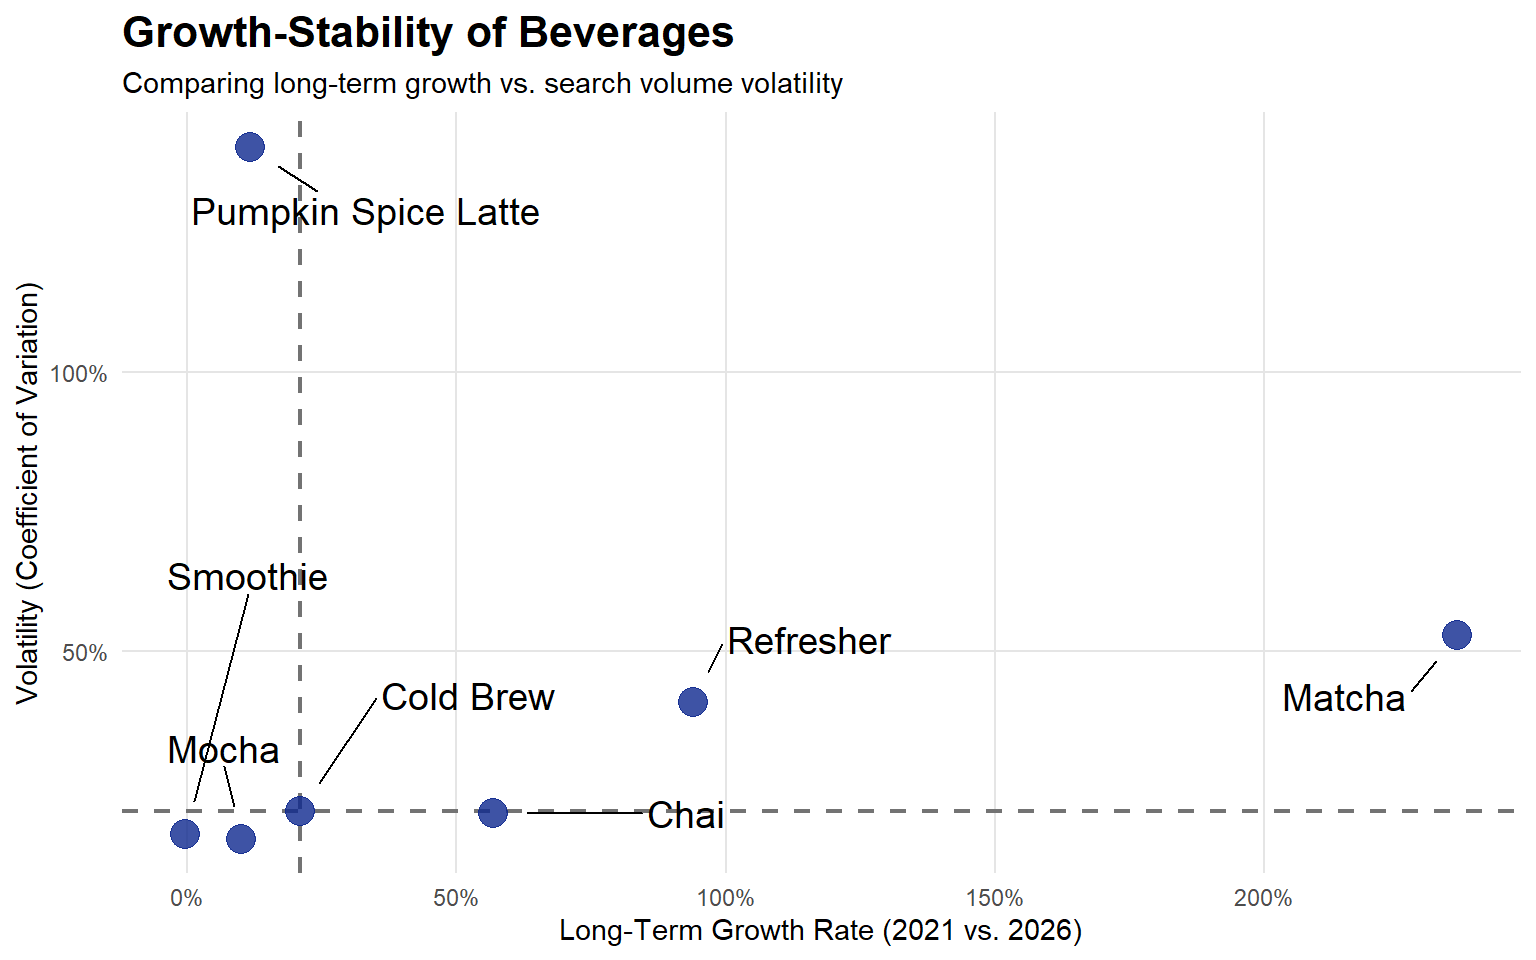
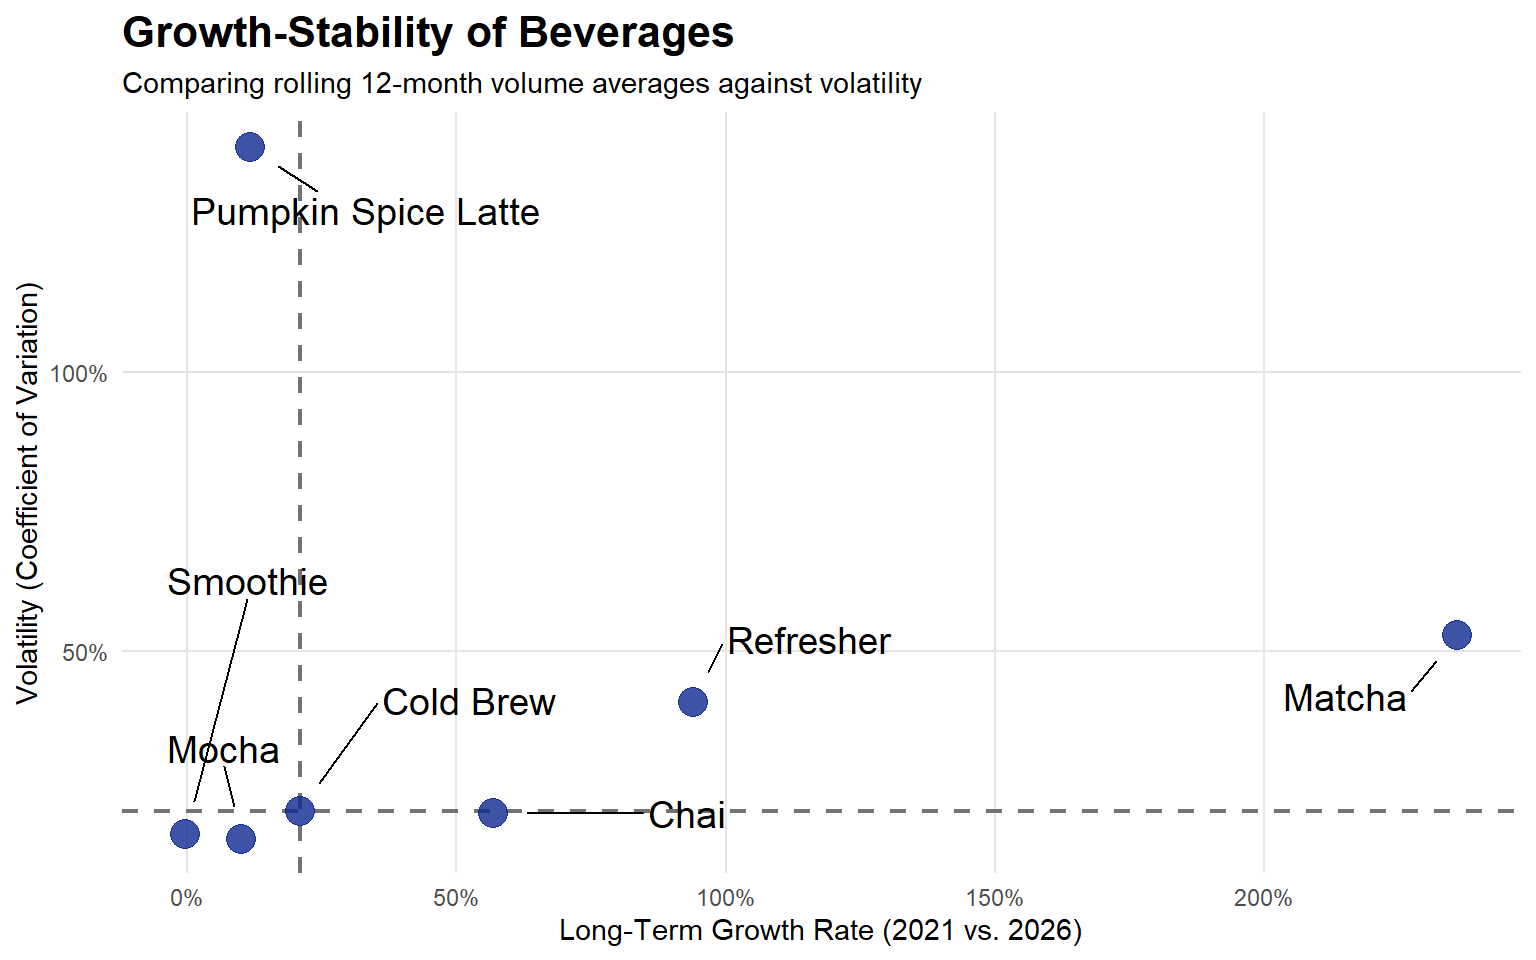
final modifications

diff --git a/matcha_dashboard1.html b/matcha_dashboard1.html
@@ -70,7 +70,7 @@ ul.task-list li input[type="checkbox"] {
         
       </div>
     </div>
-<div id="dashboard-collapse" class="navbar-collapse collapse"><ul class="navbar-nav navbar-nav-scroll me-auto" role="tablist"><li class="nav-item" role="presentation"><a id="tab-analysis" class="nav-link active" data-bs-toggle="tab" role="tab" data-bs-target="#analysis" data-scrolling="false" href="#analysis" aria-controls="analysis" aria-selected="true"><span class="nav-link-text">Analysis</span></a></li><li class="nav-item" role="presentation"><a id="tab-data" class="nav-link" data-bs-toggle="tab" role="tab" data-bs-target="#data" data-scrolling="false" href="#data" aria-controls="data" aria-selected="false"><span class="nav-link-text">Data</span></a></li></ul><div class="quarto-dashboard-links"><a class="quarto-dashboard-link" href="https://github.com/joyyy00/matcha-consumer-analysis/" title="GitHub"><i class="bi bi-github"></i></a></div></div></div>
+<div id="dashboard-collapse" class="navbar-collapse collapse"><ul class="navbar-nav navbar-nav-scroll me-auto" role="tablist"><li class="nav-item" role="presentation"><a id="tab-analysis" class="nav-link active" data-bs-toggle="tab" role="tab" data-bs-target="#analysis" data-scrolling="false" href="#analysis" aria-controls="analysis" aria-selected="true"><span class="nav-link-text">Analysis</span></a></li><li class="nav-item" role="presentation"><a id="tab-data-additional-info" class="nav-link" data-bs-toggle="tab" role="tab" data-bs-target="#data-additional-info" data-scrolling="false" href="#data-additional-info" aria-controls="data-additional-info" aria-selected="false"><span class="nav-link-text">Data &amp; Additional Info</span></a></li></ul><div class="quarto-dashboard-links"><a class="quarto-dashboard-link" href="https://github.com/joyyy00/matcha-consumer-analysis/" title="GitHub"><i class="bi bi-github"></i></a></div></div></div>
 </nav>
 </header>
 <div class="page-layout-custom quarto-dashboard-content bslib-gap-spacing html-fill-container bslib-page-fill quarto-dashboard-pages">  
@@ -125,7 +125,7 @@ grid-auto-rows: minmax(0, 1fr);">
 0.9x
 </div>
 <div style="text-align: center; color: #7F8C8D; font-size: 0.9em;" class="html-fill-item html-fill-container">
-<p>Despite lower total visibility, traditional “Powder Quality” content maintains 90% engagement parity with mainstream Starbucks trends.</p>
+<p>While ‘Ceremonial/Traditional’ videos have a smaller overall reach, they successfully generate 90% as much viewer engagement as Starbucks content</p>
 </div>
 </div>
 <bslib-tooltip placement="auto" bsoptions="[]" data-require-bs-version="5" data-require-bs-caller="tooltip()">
@@ -199,12 +199,22 @@ grid-auto-rows: minmax(0, 1fr);">
 </div>
 </div>
 </div>
-</div><div id="data" class="dashboard-page tab-pane grid-skip html-fill-item html-fill-container" data-orientation="columns" aria-labelledby="tab-data">
+</div><div id="data-additional-info" class="dashboard-page tab-pane grid-skip html-fill-item html-fill-container" data-orientation="columns" aria-labelledby="tab-data-additional-info">
 <div class="html-fill-item html-fill-container bslib-grid" style="display: grid; grid-template-columns: minmax(3em, 1fr);
 grid-auto-rows: minmax(0, 1fr);">
 <div class="card html-fill-item html-fill-container bslib-card" data-fill="false" data-bslib-card-init="" data-require-bs-caller="card()" data-full-screen="false">
 <div class="card-body html-fill-item html-fill-container">
 <p>This dashboard integrates Google Trends search data with TikTok engagement data to examine matcha as a consumer beverage, combining macro-level demand signals with social media content behavior.</p>
+<p>Google Trends Data</p>
+<p>Google Trends time-series data was collected for multiple beverage-related keywords, including matcha, matcha latte, strawberry matcha latte, boba, pumpkin spice latte, chai, mocha, cold brew, refresher, and smoothie. The dataset spans 2004–2026 on a monthly resolution for the United States.</p>
+<p>TikTok Data</p>
+<p>TikTok data was collected using the Apify API based on matcha-related hashtags. The final dataset contains approximately 520 videos. Each record includes engagement metrics such as views, likes, comments, shares, and saves.</p>
+<p>Tagging system</p>
+<p>To analyze content structure, videos were tagged using rule-based keyword detection applied to captions. These tags are not mutually exclusive, and a single video may belong to multiple tags.</p>
+Limitations
+<p>Google Trends data is a relative index and does not represent absolute search volume. It is sensitive to normalization effects across time and cannot distinguish between informational and purchase intent.</p>
+<p>TikTok data is based on hashtag scraping and therefore reflects a partial view of platform activity. Content without relevant hashtags is not captured. Engagement metrics reflect attention and interaction, not direct consumer purchasing behavior.</p>
+<p>The tagging system is rule-based and keyword-driven, meaning categories represent heuristic content signals.</p>
 </div>
 <bslib-tooltip placement="auto" bsoptions="[]" data-require-bs-version="5" data-require-bs-caller="tooltip()">
     <template>Expand</template>
